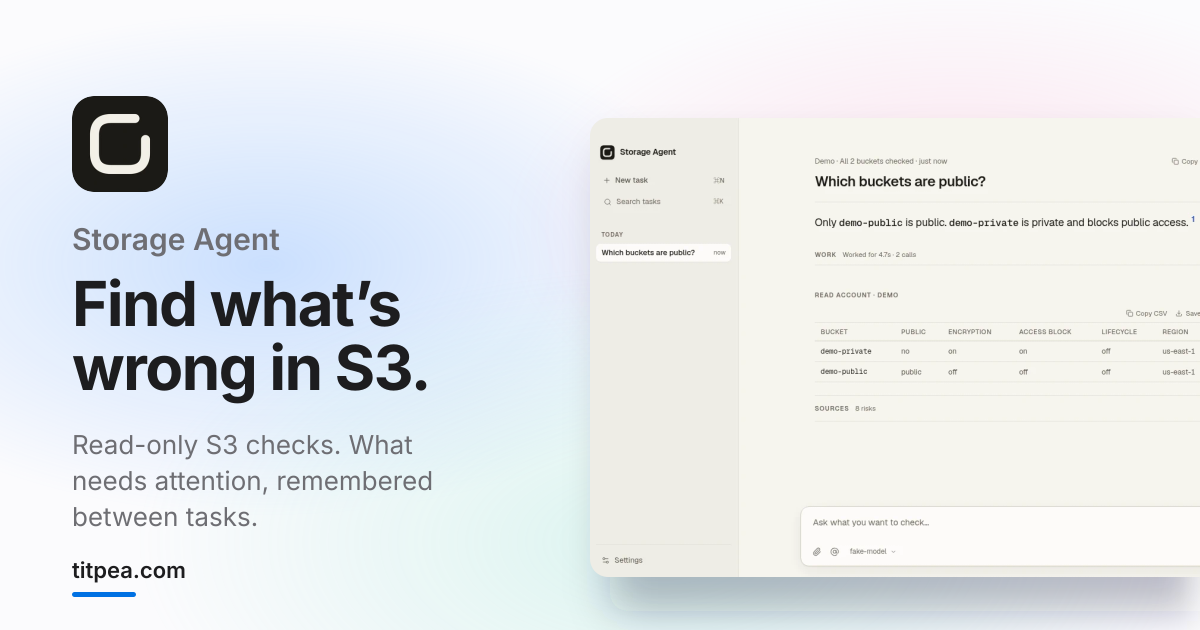
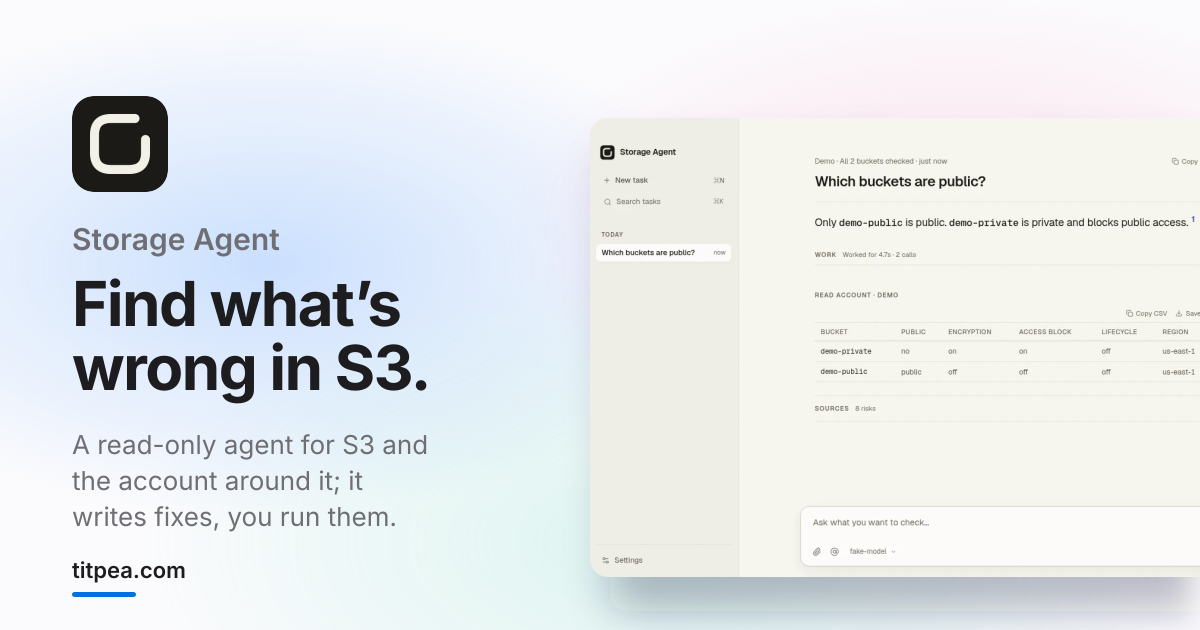
Storage Agent: rewrite the page for v40
The page described v32. Since v36 the app has no demo storage and no
model-free "Check account"; v37 rebuilt it as a read-only agent, and v40
has no scheduled check. Everything now comes from the v40.0.0 README,
CHANGELOG and docs/security.md:

- Lede, description and catalog line: you ask in plain words, the agent
  reads what the services return, never writes, and fixes are yours to
  run.
- Features: reads across the account (S3, IAM, KMS, CloudTrail, Config
  and more, read operations only), every step opens to what the agent
  received, sandboxed scripts over many objects, logs and inventories as
  local SQLite tables with every column, JSON memory that outlives
  updates, fixes as text.
- Data: "rows never reach the model" is gone (the agent queries datasets
  itself); account IDs are scrubbed; no telemetry.
- FAQ, asOf v40.0.0: a model is required; small models run with the
  provider's own limits; no background or scheduled run; a denied read
  comes back as the service's error; no write call exists.

The hero image and its caption are left to the screenshots PR.

Claude-Session: https://claude.ai/code/session_01Ua4GqDMFtzdkp1p8etYmLz

Changed region(s): [[0.0617, 0.754, 0.37, 0.8444], [0.0617, 0.6937, 0.37, 0.7238]]

diff --git a/src/content/products/storage-agent-workbench.ts b/src/content/products/storage-agent-workbench.ts
@@ -15,13 +15,13 @@ export default defineProduct({
   en: {
     title: "Storage Agent",
     description:
-      "Local, read-only desktop agent for S3-compatible storage: an account check that needs no model, answers that cite what it read, and risks it remembers between tasks.",
+      "A local, read-only desktop agent for S3 storage and the AWS account around it: ask in plain words; it reads, and never writes to your storage.",
     eyebrow: "Looks after object storage",
     headline: "Find what’s wrong in S3.",
-    lead: "It checks your S3 storage without changing anything, ranks what it finds by severity, and writes fixes for you to run.",
+    lead: "Ask about your S3 storage in plain words. The agent reads what the services return and never changes anything; fixes are yours to run.",
     catalog: {
       role: "S3 investigation",
-      text: "Read-only S3 checks. What needs attention, remembered between tasks.",
+      text: "A read-only agent for S3 and the account around it; it writes fixes, you run them.",
     },
     primaryCta: {
       label: "Download",
@@ -36,7 +36,7 @@ export default defineProduct({
       networkNote:
         "Requests go to the model and storage endpoints you configure; packaged builds check GitHub Releases for updates.",
       stays:
-        "Keys in the system keychain, or an encrypted local file; tasks in one SQLite database on this machine; no telemetry.",
+        "Keys sealed in the system keychain, or an encrypted local file; tasks, datasets and memory in SQLite files on this machine; no telemetry.",
     },
     meta: "macOS / Windows / Linux · {version} · S3-compatible · Apache-2.0",
     visual: {
@@ -56,14 +56,23 @@ export default defineProduct({
       {
         kind: "cards",
         id: "features",
-        label: "It remembers what it found.",
+        label: "Every read, shown and kept.",
         items: [
-          { title: "Check without a model", body: "“Check account” surveys and reads access with no key at all." },
-          { title: "Names what it missed", body: "Says “All 2 buckets checked”, or names each blind or failed read." },
-          { title: "Who changed it", body: "On AWS, CloudTrail names who changed a bucket, over 90 days." },
-          { title: "Remembers your storage", body: "Buckets, open Issues and their history, kept between tasks." },
-          { title: "Open questions as code", body: "Largest prefixes, data untouched for years: a sandboxed script." },
-          { title: "Fixes as text", body: "AWS CLI, Terraform or the API document, with an impact preview." },
+          {
+            title: "Reads the whole account",
+            body: "S3, IAM, KMS, CloudTrail, Config and more: only operations that read.",
+          },
+          { title: "Every step opens", body: "Open any call to see exactly what the agent received." },
+          {
+            title: "Questions over many objects",
+            body: "A sandboxed script lists, counts and reads object bodies, with no network.",
+          },
+          {
+            title: "Logs and inventories as tables",
+            body: "Access logs, CSV, JSON or Parquet become local SQLite tables, every column kept.",
+          },
+          { title: "Remembers between tasks", body: "JSON memory the agent recalls itself; it outlives app updates." },
+          { title: "Fixes as text", body: "It may write a change for you to apply; the app never runs it." },
         ],
       },
       {
@@ -71,9 +80,9 @@ export default defineProduct({
         id: "data",
         title: "Where your data goes.",
         items: [
-          "Keys stay in the system keychain, or an encrypted local file; an AWS profile account stores only its name.",
-          "Tasks, logs and inventories are analyzed on this machine; their rows never reach the model.",
-          "Requests go to the model and S3-compatible endpoints you configure. Packaged builds check this project’s GitHub Releases for updates.",
+          "Keys are sealed in the system keychain, or an encrypted local file; an AWS profile account stores only its name.",
+          "Tasks, datasets and memory stay in SQLite files on this machine; account IDs are scrubbed before the model sees anything.",
+          "Requests go only to the model and endpoints you configure, and to GitHub Releases for updates. No telemetry.",
         ],
       },
       {
@@ -82,28 +91,29 @@ export default defineProduct({
         label: "FAQ",
         items: [
           {
-            title: "Does it need a model key?",
-            body: "Not for “Check account”: it surveys an account and reads access without a model. Questions need one: OpenAI, Anthropic, or any OpenAI-compatible endpoint; models already running in Ollama or LM Studio are one click away. Paste a key and the provider’s models are listed.",
-            asOf: "v32.0.0",
+            title: "Does it need a model?",
+            body: "Yes. Every read goes through the agent, so without a model the window asks for one. OpenAI, Anthropic or any OpenAI-compatible endpoint works; models already running in Ollama or LM Studio are one click away.",
+            asOf: "v40.0.0",
           },
           {
             title: "Will a small local model work?",
-            body: "Yes. The context window is inferred from the model; below 64k it counts as small and gets fewer rounds. The answer format stays the same.",
-            asOf: "v32.0.0",
+            body: "It runs: the context window and output limit come from what the provider reports, with no fixed caps. How well it investigates depends on the model; the project’s release notes carry a smoke test, not a quality score.",
+            asOf: "v40.0.0",
           },
           {
             title: "Does it watch my account?",
-            body: "Not in the background. An account can opt into a daily or weekly read-only check, which runs only while the app is open and never uses a model. A check is a snapshot; “Check again” starts a new one, and “Re-verify” re-reads the buckets a task touched.",
-            asOf: "v32.0.0",
+            body: "No. It reads only while you ask in a task; there is no background or scheduled run.",
+            asOf: "v40.0.0",
           },
           {
-            title: "What will a fix change?",
-            body: "Each fix comes with a preview of what applying it would change, drawn from what the app has already read, such as anonymous requests in the bucket’s access logs or existing lifecycle rules. When those cannot tell, it says so.",
+            title: "What happens when a read is denied?",
+            body: "The service’s error comes back as it is, and the call stays in the conversation; saying what could not be read is the agent’s job.",
+            asOf: "v40.0.0",
           },
           {
             title: "Can it change my storage?",
-            body: "No. It has no put, delete or other write call, and it never applies a fix: fixes are text for you to run. A bucket list in an account’s settings limits which buckets it may read.",
-            asOf: "v32.0.0",
+            body: "No. No put, delete or other write call exists: only operations whose names say they read will run, and reads that hand out credentials are refused. A bucket list in an account’s settings limits which buckets it may read.",
+            asOf: "v40.0.0",
           },
         ],
       },
@@ -112,13 +122,13 @@ export default defineProduct({
   zh: {
     title: "Storage Agent",
     description:
-      "面向 S3 兼容存储的本地只读桌面 Agent：账户检查不需要模型，回答引用它读到的内容，发现的风险跨任务保留。",
+      "面向 S3 兼容存储及其所在 AWS 账号的本地只读桌面 Agent：用平常的话提问，它读取各服务返回的内容，从不写入你的存储。",
     eyebrow: "照看对象存储",
     headline: "找出 S3 里的隐患",
-    lead: "只读检查你的 S3 存储，不做任何改动。发现的风险按严重度排好，修复写好由你执行。",
+    lead: "用平常的话问你的 S3 存储。Agent 只读取各服务返回的内容，不做任何改动；修复由你来执行。",
     catalog: {
       role: "S3 排查",
-      text: "只读 S3 排查。需要关注的问题跨任务保留。",
+      text: "只读的 S3 排查 Agent，覆盖存储所在的整个账号；修复它来写，你来执行。",
     },
     primaryCta: {
       label: "下载",
@@ -131,7 +141,7 @@ export default defineProduct({
     privacy: {
       network: "automatic",
       networkNote: "请求发往你配置的模型和存储端点；安装版会向 GitHub Releases 检查更新。",
-      stays: "密钥在系统钥匙串或本机加密文件里；任务在本机一个 SQLite 数据库中；不收集遥测。",
+      stays: "密钥封存在系统钥匙串或本机加密文件里；任务、数据集和记忆存在本机的 SQLite 文件中；不收集遥测。",
     },
     meta: "macOS / Windows / Linux · {version} · S3 兼容 · Apache-2.0",
     visual: {
@@ -151,14 +161,14 @@ export default defineProduct({
       {
         kind: "cards",
         id: "features",
-        label: "查到的问题会记下来",
+        label: "每一次读取都看得见",
         items: [
-          { title: "不用模型也能检查", body: "“检查账户”不需要任何密钥，就能盘点并读取访问权限。" },
-          { title: "说清没读到什么", body: "全部检查完会写明；读不到、读失败的逐一列出。" },
-          { title: "谁改的", body: "在 AWS 上用 CloudTrail 查出 90 天内是谁改了桶。" },
-          { title: "记住你的存储", body: "桶、未解决的问题和它们的变化记录，跨任务保留。" },
-          { title: "开放问题写成代码", body: "最大的前缀、多年没动的数据：在沙箱里跑一段脚本。" },
-          { title: "修复只给文本", body: "AWS CLI、Terraform 或 API 文档，附影响预估。" },
+          { title: "读遍整个账号", body: "S3、IAM、KMS、CloudTrail、Config 等，只运行读取操作。" },
+          { title: "每一步都能打开", body: "打开任何一次调用，看 Agent 实际收到了什么。" },
+          { title: "多对象问题用脚本", body: "沙箱脚本列举、统计、读取对象内容，不能联网。" },
+          { title: "日志和清单变成表", body: "访问日志、CSV、JSON、Parquet 导入本地 SQLite，每一列都保留。" },
+          { title: "跨任务记住", body: "Agent 自己调取的 JSON 记忆，应用升级后仍在。" },
+          { title: "修复是文本", body: "它可以写出变更供你执行，应用从不运行。" },
         ],
       },
       {
@@ -166,9 +176,9 @@ export default defineProduct({
         id: "data",
         title: "数据的去向",
         items: [
-          "密钥在系统钥匙串或本机加密文件里；AWS profile 账户只存它的名称。",
-          "任务、访问日志和清单在本机分析，原始行不会发给模型。",
-          "请求发往你配置的模型和 S3 兼容存储端点。安装版会向本项目的 GitHub Releases 检查更新。",
+          "密钥封存在系统钥匙串或本机加密文件里；AWS profile 账号只存它的名称。",
+          "任务、数据集和记忆存在本机的 SQLite 文件里；模型、窗口和日志看到的内容都会抹去账号 ID。",
+          "请求只发往你配置的模型、存储和 AWS 端点。安装版会向本项目的 GitHub Releases 检查更新；不收集遥测。",
         ],
       },
       {
@@ -177,28 +187,29 @@ export default defineProduct({
         label: "常见问题",
         items: [
           {
-            title: "没有模型密钥能用吗？",
-            body: "“检查账户”不需要：不用模型就能盘点账户、读取访问权限。提问需要模型：OpenAI、Anthropic 或任何兼容 OpenAI 的端点；已在 Ollama 或 LM Studio 里运行的模型一键可选。粘贴密钥后会列出该服务的模型。",
-            asOf: "v32.0.0",
+            title: "需要模型吗？",
+            body: "需要。所有读取都经由 Agent，没有模型时窗口会提示你配置。OpenAI、Anthropic 或任何兼容 OpenAI 的端点都可以；已在 Ollama 或 LM Studio 里运行的模型一键可选。",
+            asOf: "v40.0.0",
           },
           {
             title: "小的本地模型够用吗？",
-            body: "够用。上下文窗口按模型推断；小于 64k 算小模型，会用更少的轮次，回答格式不变。",
-            asOf: "v32.0.0",
+            body: "能运行。上下文窗口和输出上限都取自服务商报告的数值，没有固定上限。排查得好不好取决于模型；项目的发布说明只附冒烟测试结果，不代表模型质量。",
+            asOf: "v40.0.0",
           },
           {
             title: "它会在后台巡检吗？",
-            body: "不会在后台巡检。每个账户可以选择每天或每周做一次只读检查，只在应用打开时运行，不用模型。每次检查是一个快照；“再检查一次”会新开一个，“重新验证”会重读任务涉及的桶。",
-            asOf: "v32.0.0",
+            body: "不会。只有你在任务里提问时它才读取，没有后台或定时运行。",
+            asOf: "v40.0.0",
           },
           {
-            title: "修复会改变什么？",
-            body: "每个修复都附带影响预估，来自应用已经读到的内容，例如桶访问日志里的匿名请求或现有的生命周期规则。判断不了时，它会直说。",
+            title: "读取被拒绝时会怎样？",
+            body: "服务返回的错误原样带回，这次调用留在对话里；哪些没能读到，由 Agent 来说明。",
+            asOf: "v40.0.0",
           },
           {
             title: "它会改动我的存储吗？",
-            body: "不会。它没有写入、删除或任何修改操作，也从不执行修复：修复只是给你运行的文本。在账户设置里填写桶列表，可以限定它能读哪些桶。",
-            asOf: "v32.0.0",
+            body: "不会。它没有任何写入或删除调用：只运行名字表明是读取的操作，会交出凭证的读取也会被拒绝。在账号设置里填写桶列表，可以限定它能读哪些桶。",
+            asOf: "v40.0.0",
           },
         ],
       },
